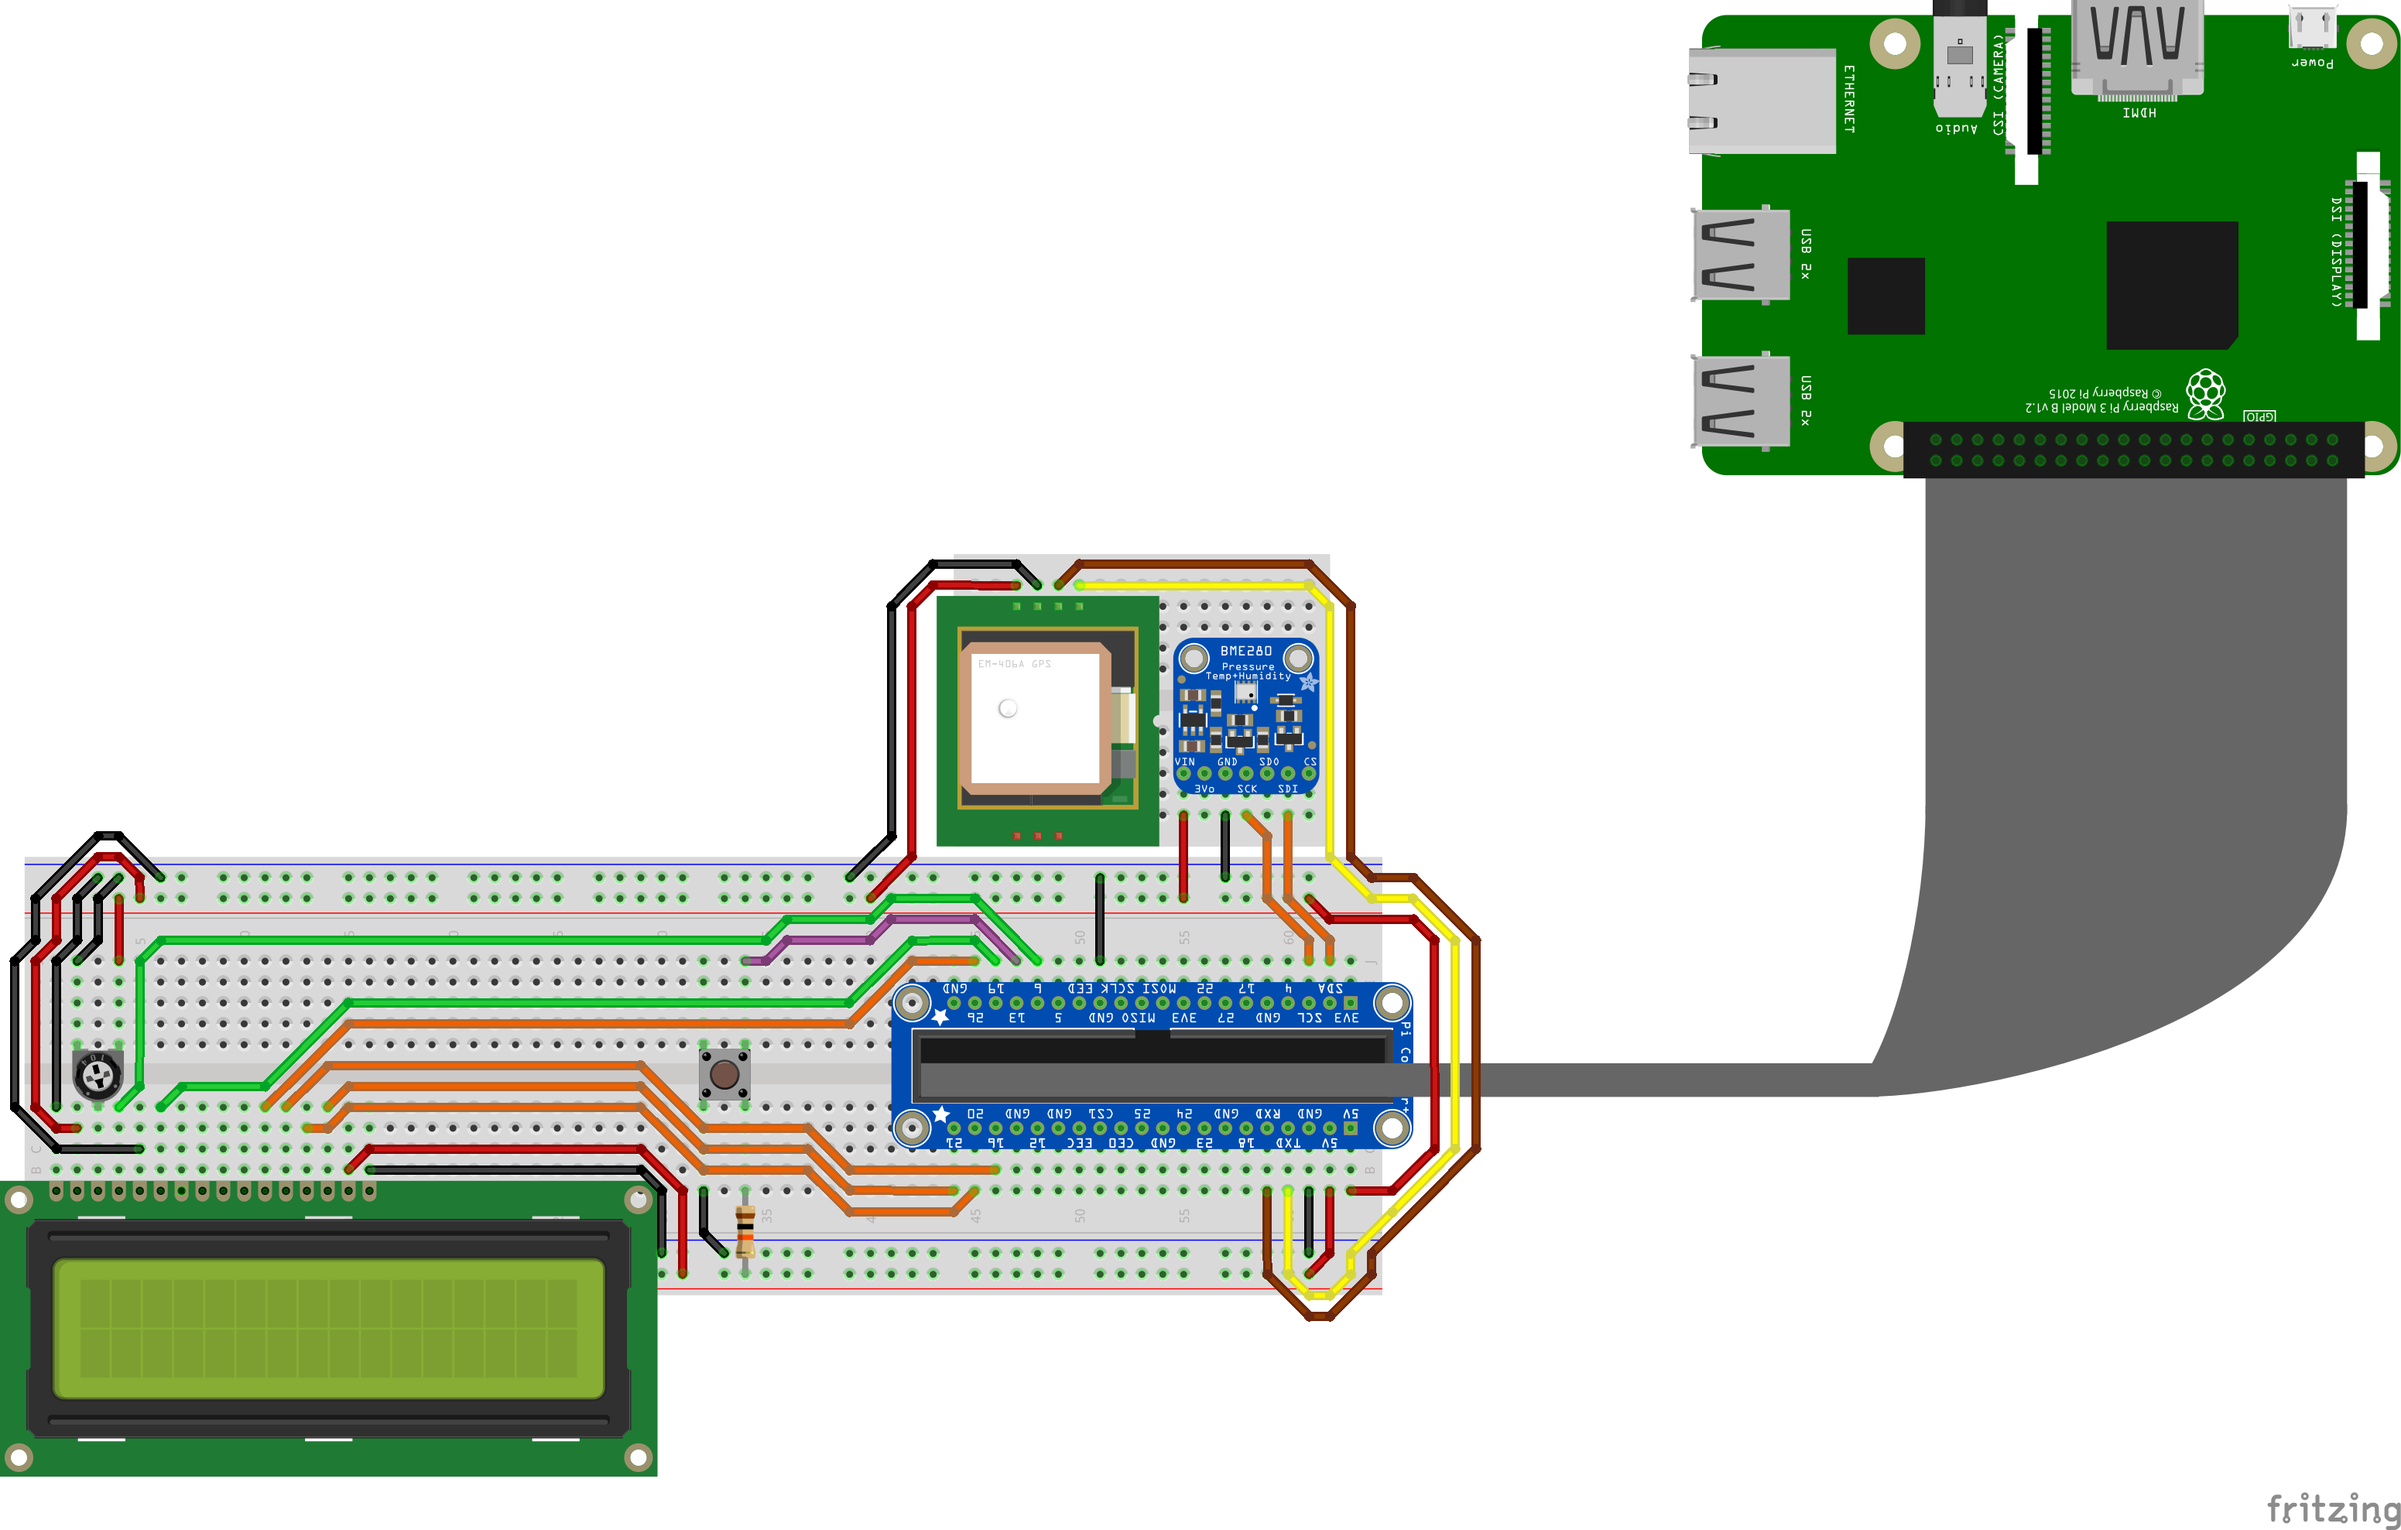
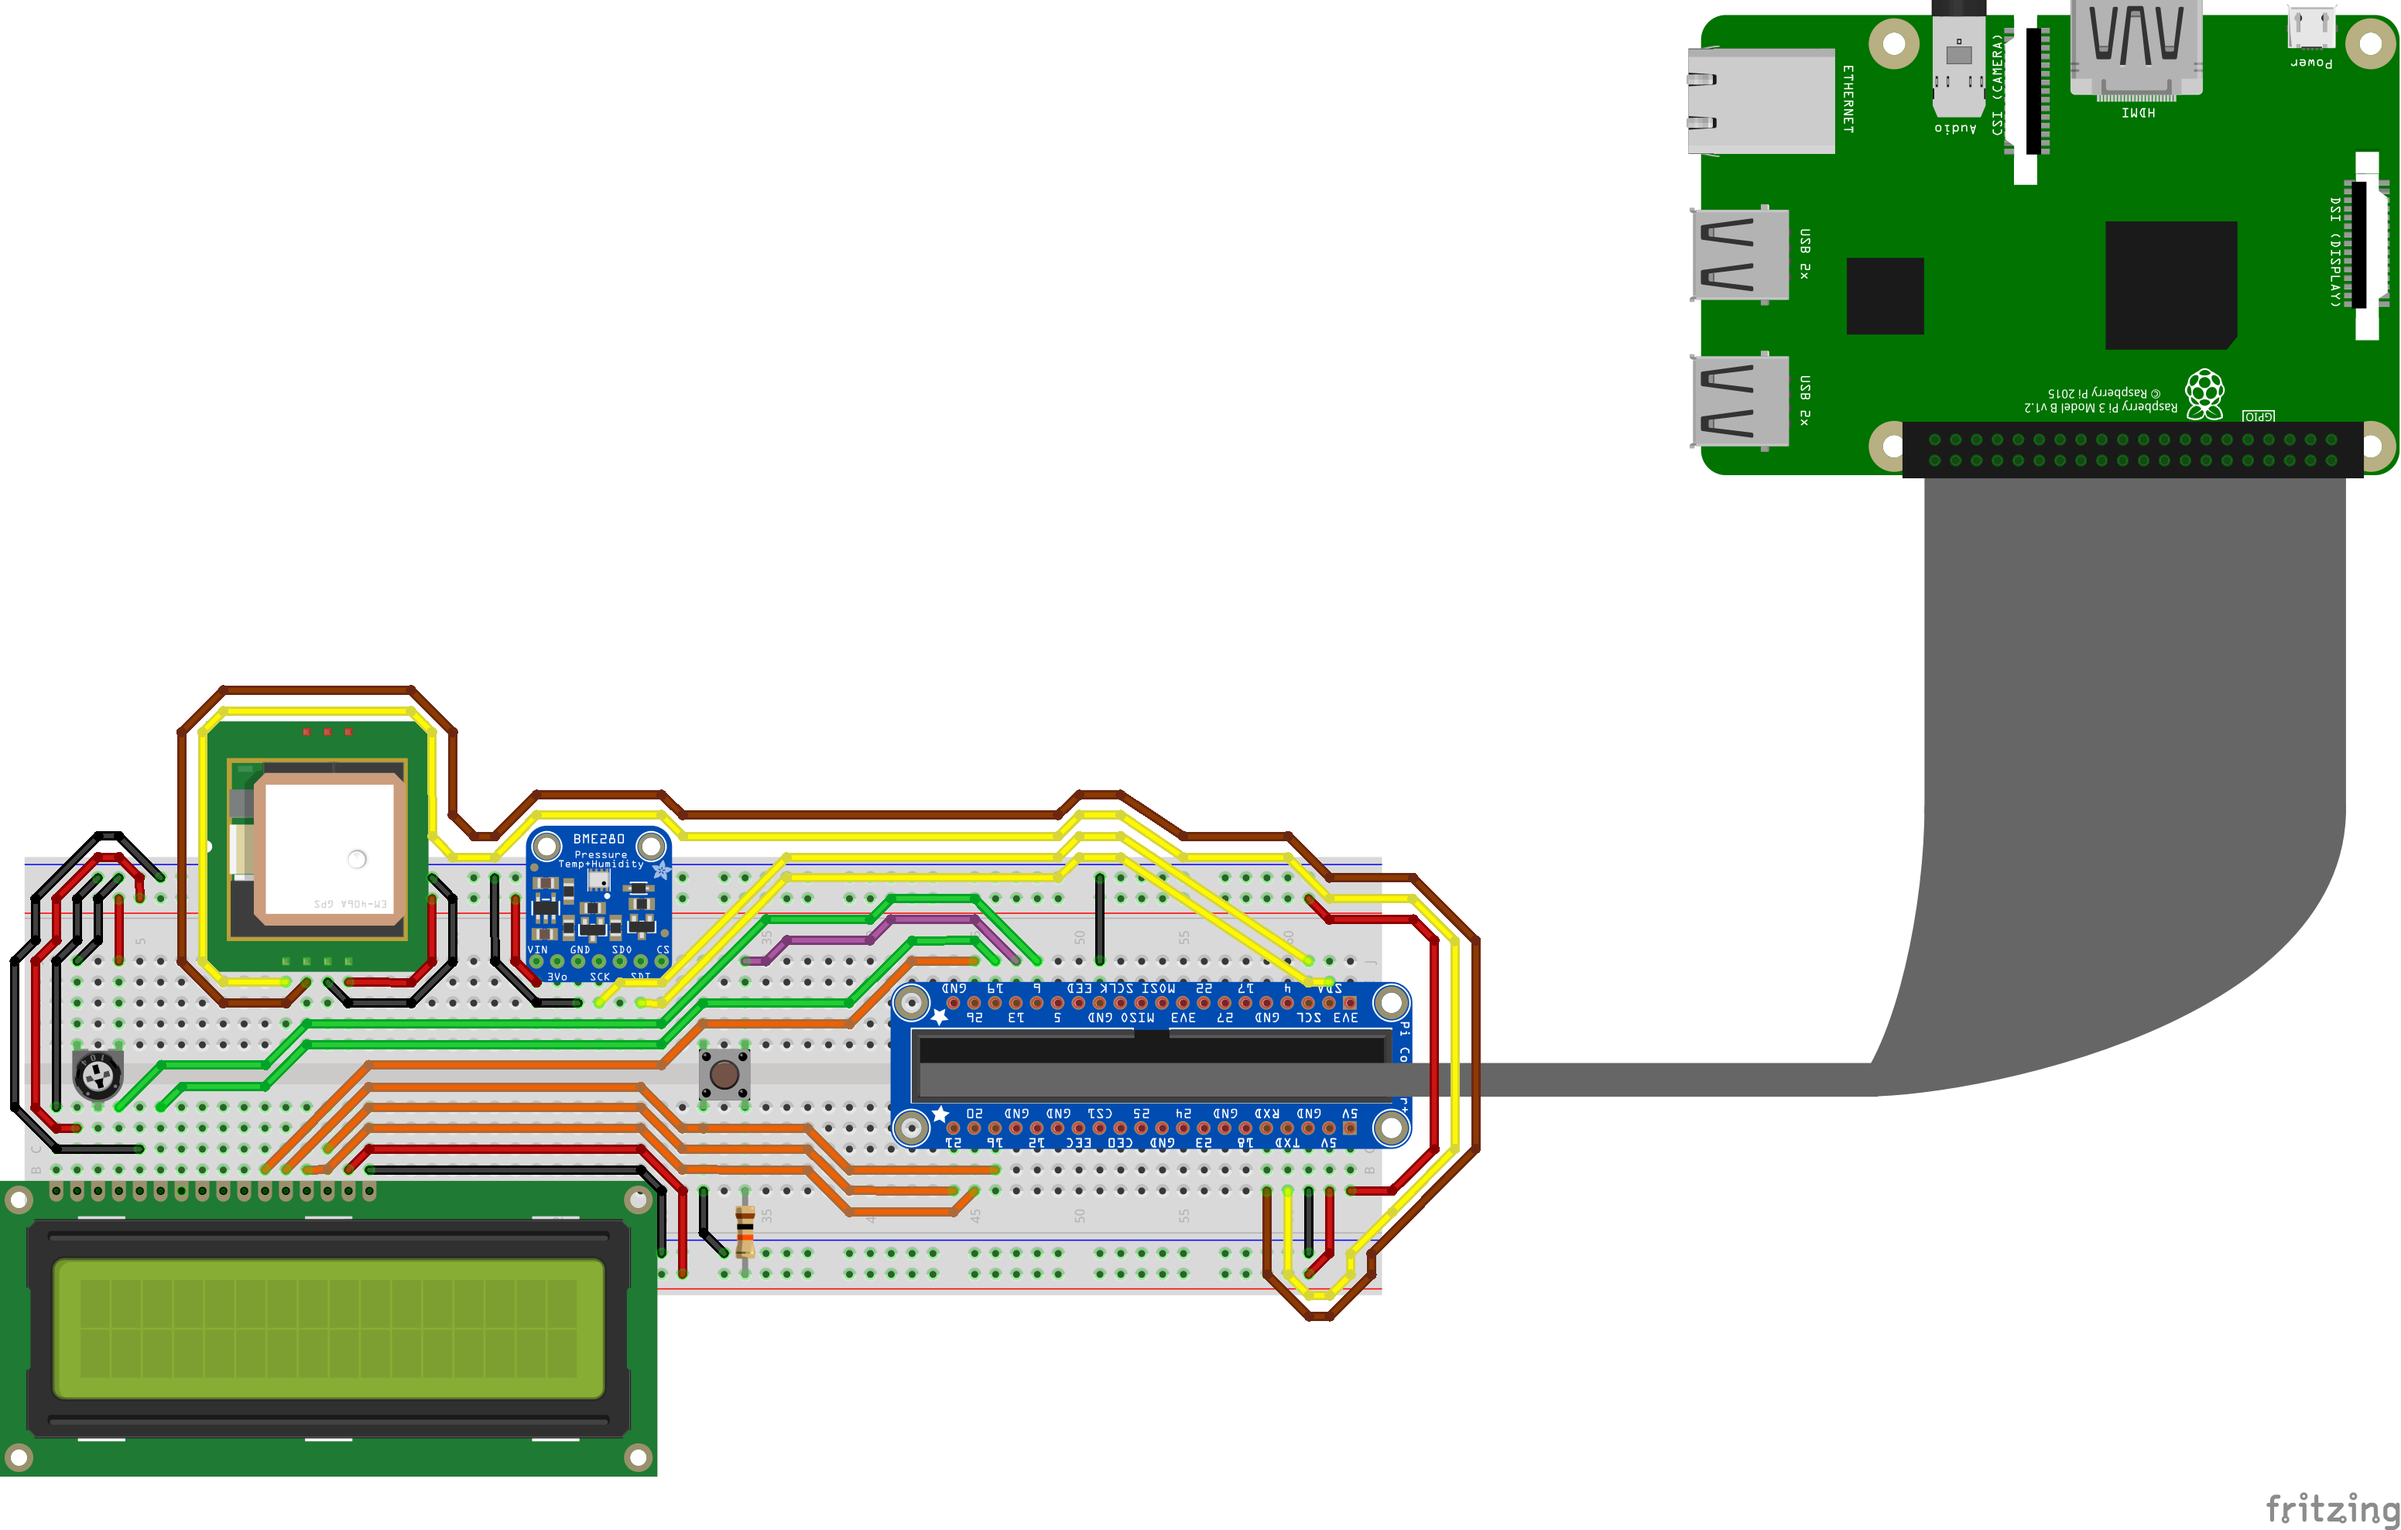
Test reading of BME280 sensor data. Update schematics

diff --git a/app/src/main/java/pl/piotrserafin/weatherstation/WeatherDisplayActivity.java b/app/src/main/java/pl/piotrserafin/weatherstation/WeatherDisplayActivity.java
@@ -11,6 +11,8 @@ import com.google.android.things.contrib.driver.button.Button;
 import com.google.android.things.contrib.driver.button.ButtonInputDriver;
 
 import java.io.IOException;
+import java.util.ArrayList;
+import java.util.List;
 
 import pl.piotrserafin.weatherstation.api.OpenWeatherApiClient;
 import pl.piotrserafin.weatherstation.fsm.State;
@@ -19,6 +21,7 @@ import pl.piotrserafin.weatherstation.gps.Gps;
 import pl.piotrserafin.weatherstation.lcd.Lcd;
 import pl.piotrserafin.weatherstation.model.WeatherData;
 import pl.piotrserafin.weatherstation.sensor.EnvironmentalSensor;
+import pl.piotrserafin.weatherstation.sensor.SensorData;
 import pl.piotrserafin.weatherstation.utils.RpiSettings;
 import retrofit2.Call;
 import retrofit2.Callback;
@@ -96,6 +99,17 @@ public class WeatherDisplayActivity extends Activity {
 
         //StateInit -> StateFetchGpsData
         stateContext.takeAction();
+    }
+
+    private void initEnvironmentalSensor() {
+
+        Timber.d("initEnvironmentalSensor");
+
+        try {
+            sensor = new EnvironmentalSensor(RpiSettings.getI2cBusName());
+        } catch (IOException e) {
+            Timber.e(e);
+        }
     }
 
     private void initButton() {
@@ -259,6 +273,7 @@ public class WeatherDisplayActivity extends Activity {
             initButton();
             initLcd();
             initGps();
+            initEnvironmentalSensor();
         }
     }
 
@@ -337,6 +352,11 @@ public class WeatherDisplayActivity extends Activity {
             setLcdMessage("City:");
             setLcdPosition(1,0);
             setLcdMessage(weatherData.getName());
+
+            //TODO: Test for reading BME280 sensor data
+            List<SensorData> sensorsData = new ArrayList<>();
+            sensor.collectData(sensorsData);
+            Timber.d(sensorsData.toString());
         }
     }
 

diff --git a/app/src/main/java/pl/piotrserafin/weatherstation/sensor/EnvironmentalSensor.java b/app/src/main/java/pl/piotrserafin/weatherstation/sensor/EnvironmentalSensor.java
@@ -16,14 +16,9 @@ public class EnvironmentalSensor implements AutoCloseable {
     private String i2cBus;
     private Bmx280 bmx280;
 
-    public EnvironmentalSensor(String i2cBus) {
+    public EnvironmentalSensor(String i2cBus) throws IOException {
         this.i2cBus = i2cBus;
-
-        try {
-            init();
-        } catch (IOException e) {
-            Timber.e(e);
-        }
+        init();
     }
 
     private void init() throws IOException {

diff --git a/app/src/main/java/pl/piotrserafin/weatherstation/sensor/SensorData.java b/app/src/main/java/pl/piotrserafin/weatherstation/sensor/SensorData.java
@@ -26,4 +26,13 @@ public class SensorData {
     public float getValue() {
         return value;
     }
+
+    @Override
+    public String toString() {
+        return "SensorData{" +
+                "timestamp=" + timestamp +
+                ", sensorName='" + sensorName + '\'' +
+                ", value=" + value +
+                '}';
+    }
 }
